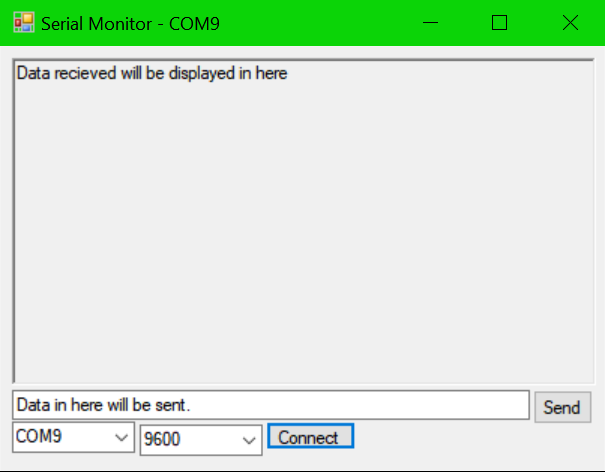
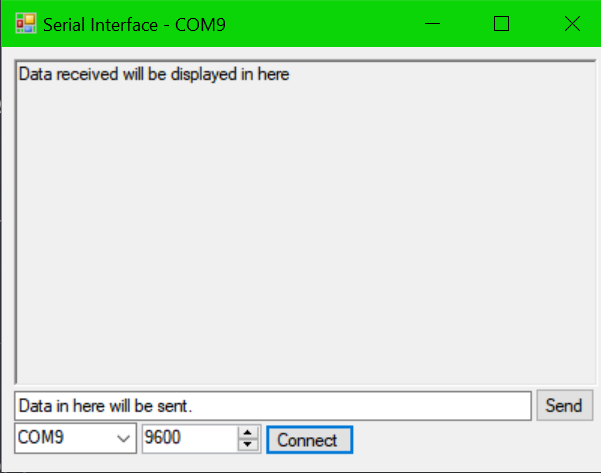
Updates image of UI to reflect recent changes, and removes some redundant things under the hood

diff --git a/SerialInterface/Window.cs b/SerialInterface/Window.cs
@@ -1,9 +1,6 @@
 using System;
 using System.ComponentModel;
-using System.Drawing;
-using System.Threading;
 using System.Windows.Forms;
-#pragma warning disable IDE1006 // Disable pesky naming style warnings (not required)
 
 namespace SerialInterface
 {
@@ -11,7 +8,6 @@ namespace SerialInterface
     {
         //Program name
         public static string appName = "Serial Interface";
-        public static int[] bauds = { 0, 1 };
         public Window()
         {
             //runs on startup
